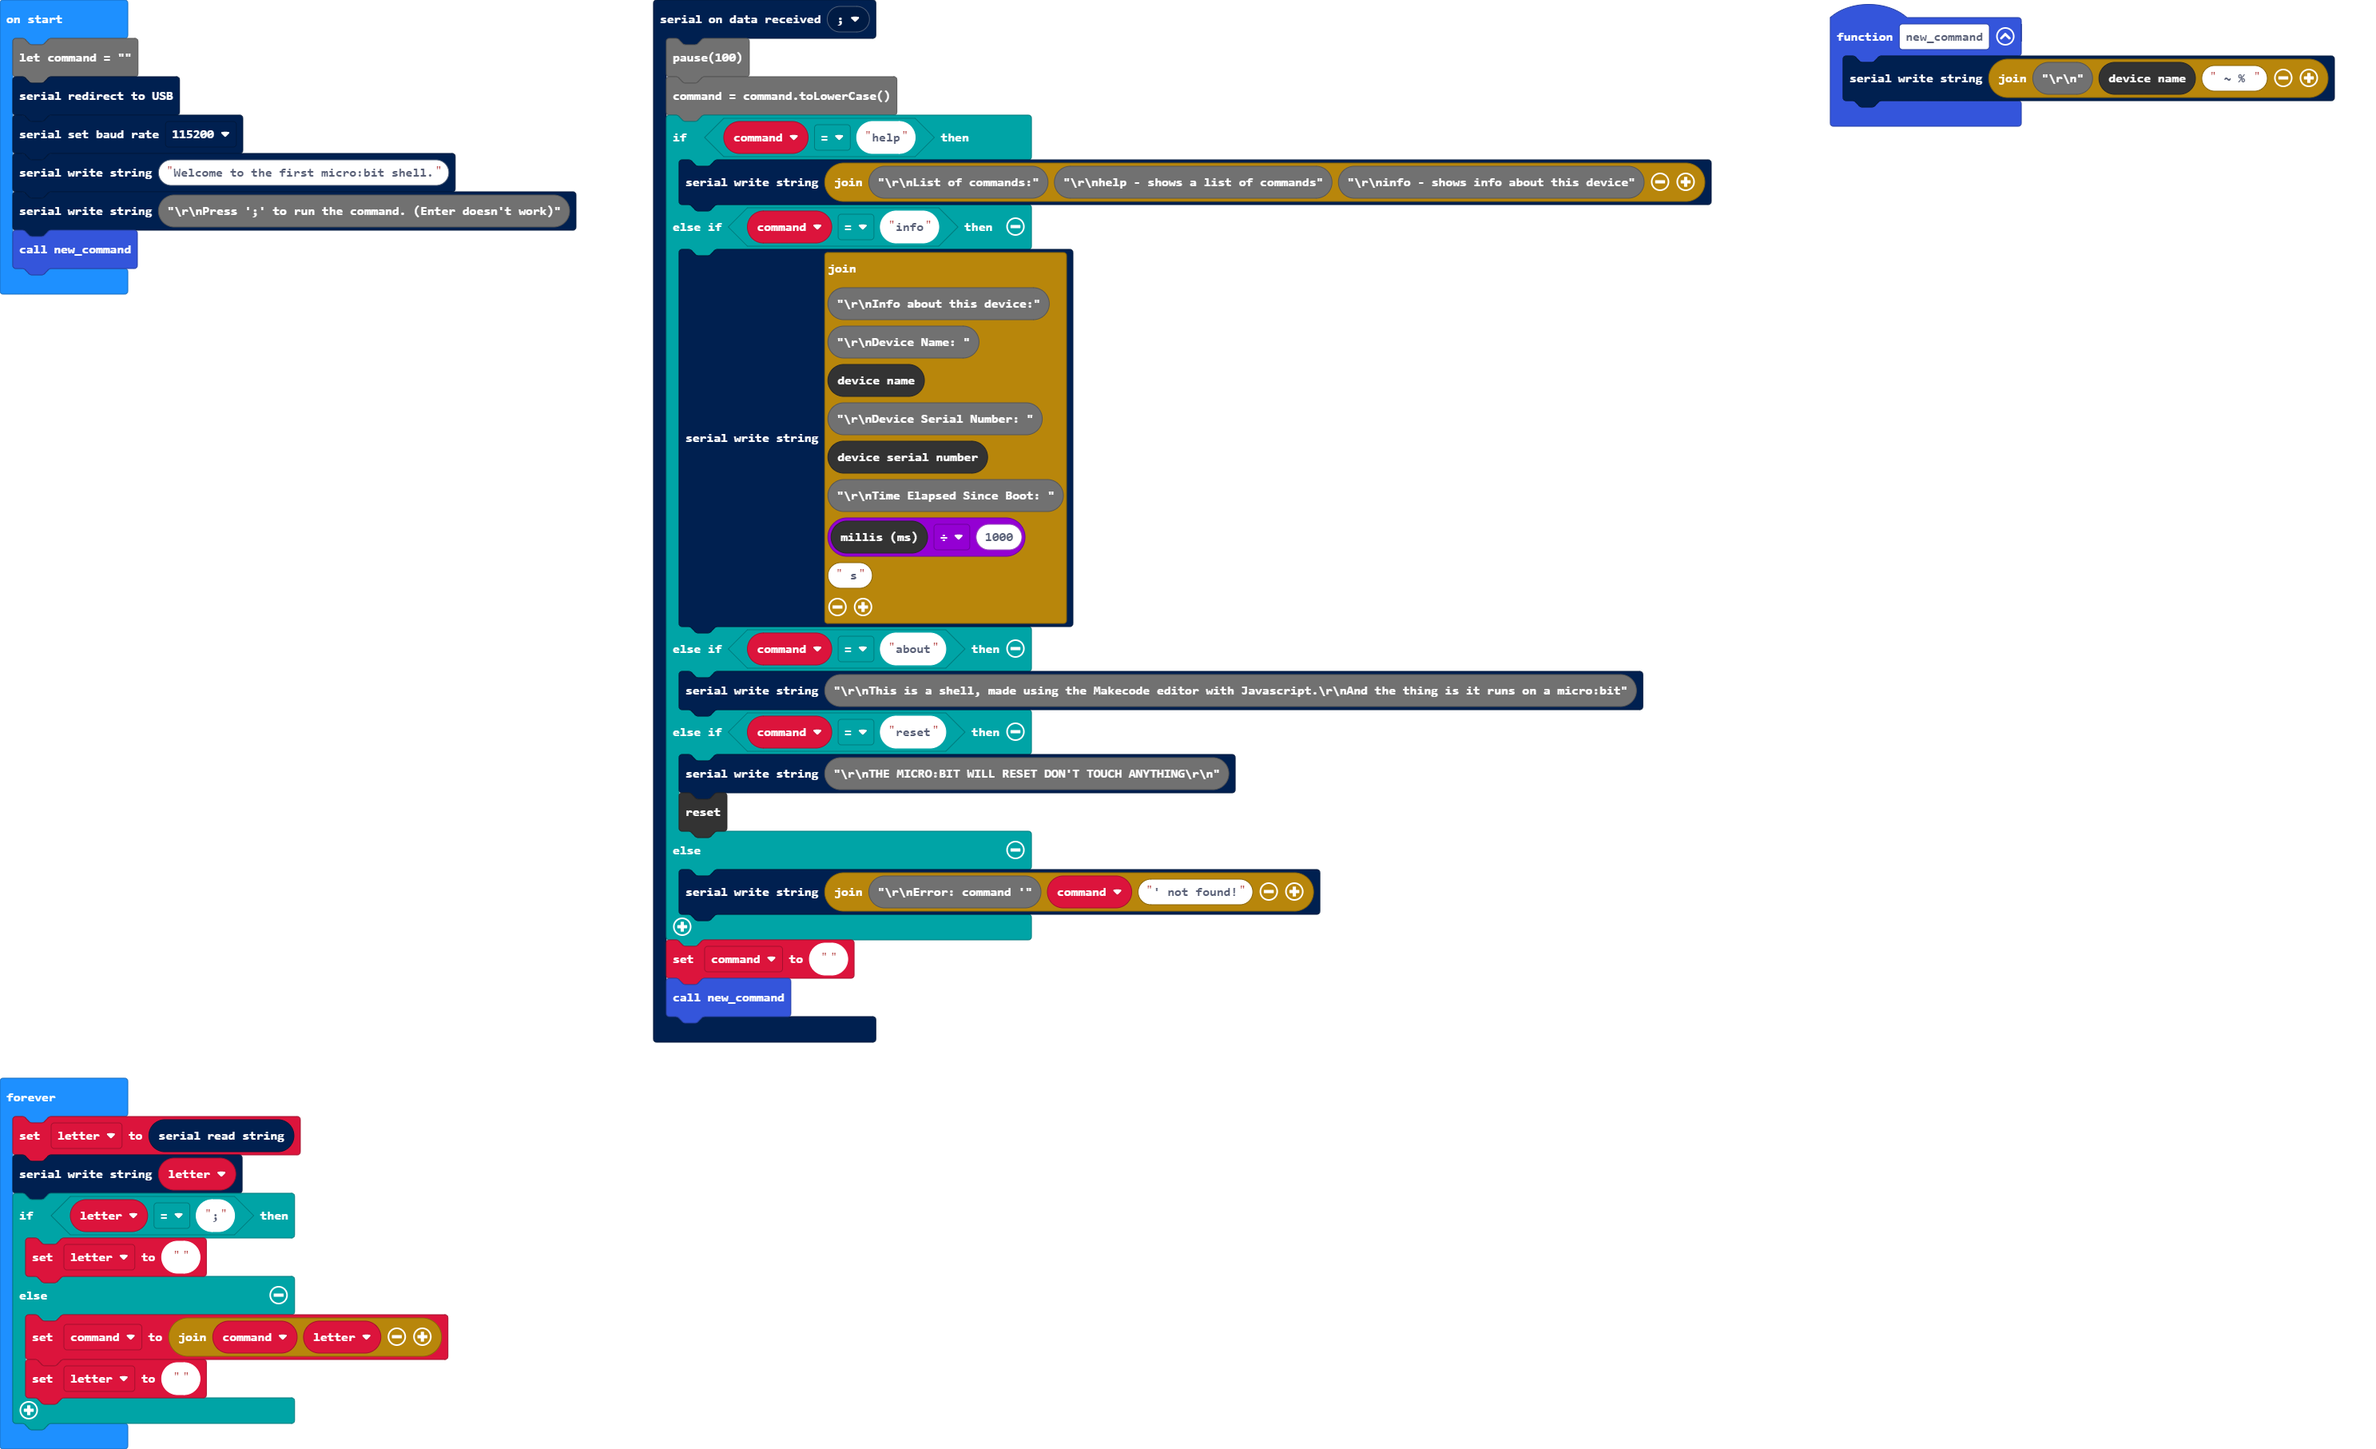
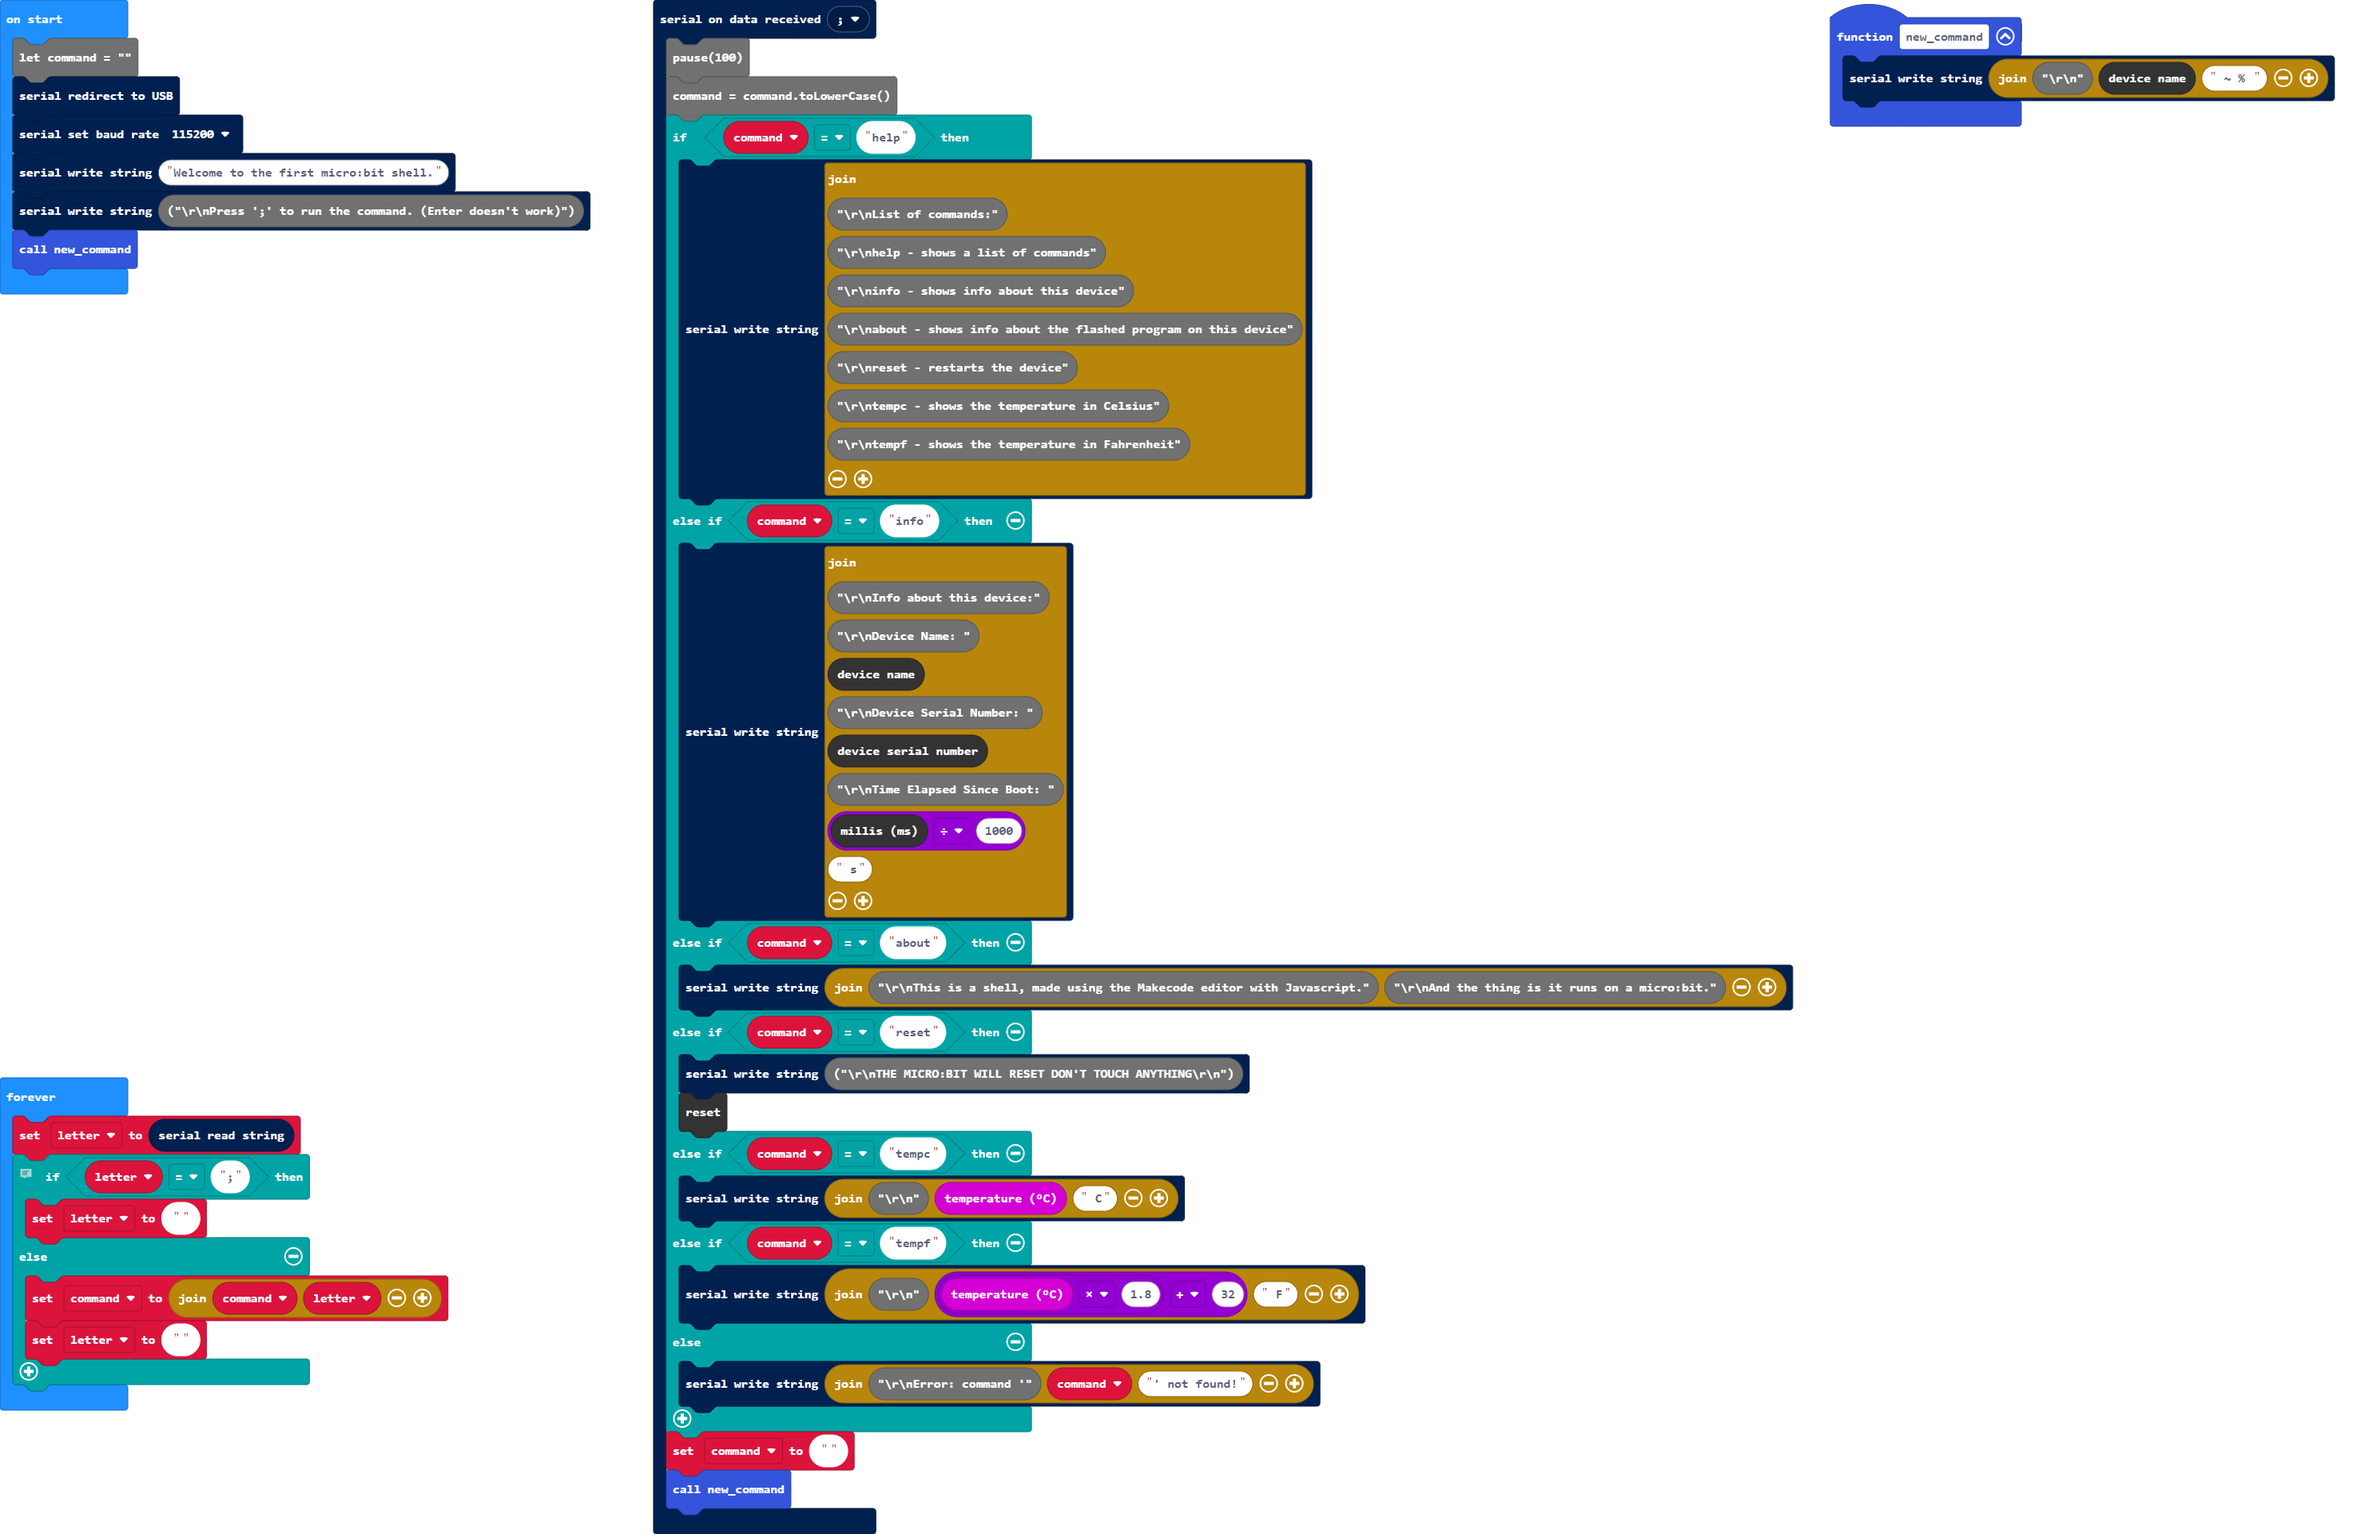
Update main.blocks, main.ts

diff --git a/main.ts b/main.ts
@@ -1,33 +1,38 @@
 serial.onDataReceived(serial.delimiters(Delimiters.SemiColon), function () {
     pause(100)
-    command = command.toLowerCase()
-    if (command == "help") {
-            serial.writeString("" + "\r\nList of commands:" + 
-            "\r\nhelp - shows a list of commands" + 
-            "\r\ninfo - shows info about this device" + 
-            "\r\nabout - shows info about the flashed program on this device")
-        } else if (command == "info") {
-            serial.writeString("" + "\r\nInfo about this device:" + 
-            "\r\nDevice Name: " + control.deviceName() + 
-            "\r\nDevice Serial Number: " + control.deviceSerialNumber() + 
-            "\r\nTime Elapsed Since Boot: " + control.millis() / 1000 + " s")
-        } else if (command == "about") {
-            serial.writeString("" + ("\r\nThis is a shell, made using the Makecode editor with Javascript." + 
-            "\r\nAnd the thing is it runs on a micro:bit."))
-        } else if (command == "reset") {
-            serial.writeString("" + ("\r\nTHE MICRO:BIT WILL RESET DON'T TOUCH ANYTHING\r\n"))
-            control.reset()
-        } else {
-            serial.writeString("" + "\r\nError: command '" + command + "' not found!")
+command = command.toLowerCase()
+if (command == "help") {
+        serial.writeString("" + "\r\nList of commands:" + 
+        "\r\nhelp - shows a list of commands" + 
+        "\r\ninfo - shows info about this device" + 
+        "\r\nabout - shows info about the flashed program on this device" + 
+        "\r\nreset - restarts the device" + 
+        "\r\ntempc - shows the temperature in Celsius" + 
+        "\r\ntempf - shows the temperature in Fahrenheit")
+    } else if (command == "info") {
+        serial.writeString("" + "\r\nInfo about this device:" + 
+        "\r\nDevice Name: " + control.deviceName() + 
+        "\r\nDevice Serial Number: " + control.deviceSerialNumber() + 
+        "\r\nTime Elapsed Since Boot: " + control.millis() / 1000 + " s")
+    } else if (command == "about") {
+        serial.writeString("" + "\r\nThis is a shell, made using the Makecode editor with Javascript." + 
+        "\r\nAnd the thing is it runs on a micro:bit.")
+    } else if (command == "reset") {
+        serial.writeString("" + ("\r\nTHE MICRO:BIT WILL RESET DON'T TOUCH ANYTHING\r\n"))
+        control.reset()
+    } else if (command == "tempc") {
+        serial.writeString("" + "\r\n" + input.temperature() + " C")
+    } else if (command == "tempf") {
+        serial.writeString("" + "\r\n" + (input.temperature() * 1.8 + 32) + " F")
+    } else {
+        serial.writeString("" + "\r\nError: command '" + command + "' not found!")
     }
     command = ""
     new_command()
 })
-
 function new_command () {
     serial.writeString("" + "\r\n" + control.deviceName() + " ~ % ")
 }
-
 let letter = ""
 let command = ""
 serial.redirectToUSB()
@@ -44,4 +49,7 @@ basic.forever(function () {
         command = "" + command + letter
         letter = ""
     }
+})
+pins.onPulsed(DigitalPin.P1, PulseValue.High, function () {
+    
 })
